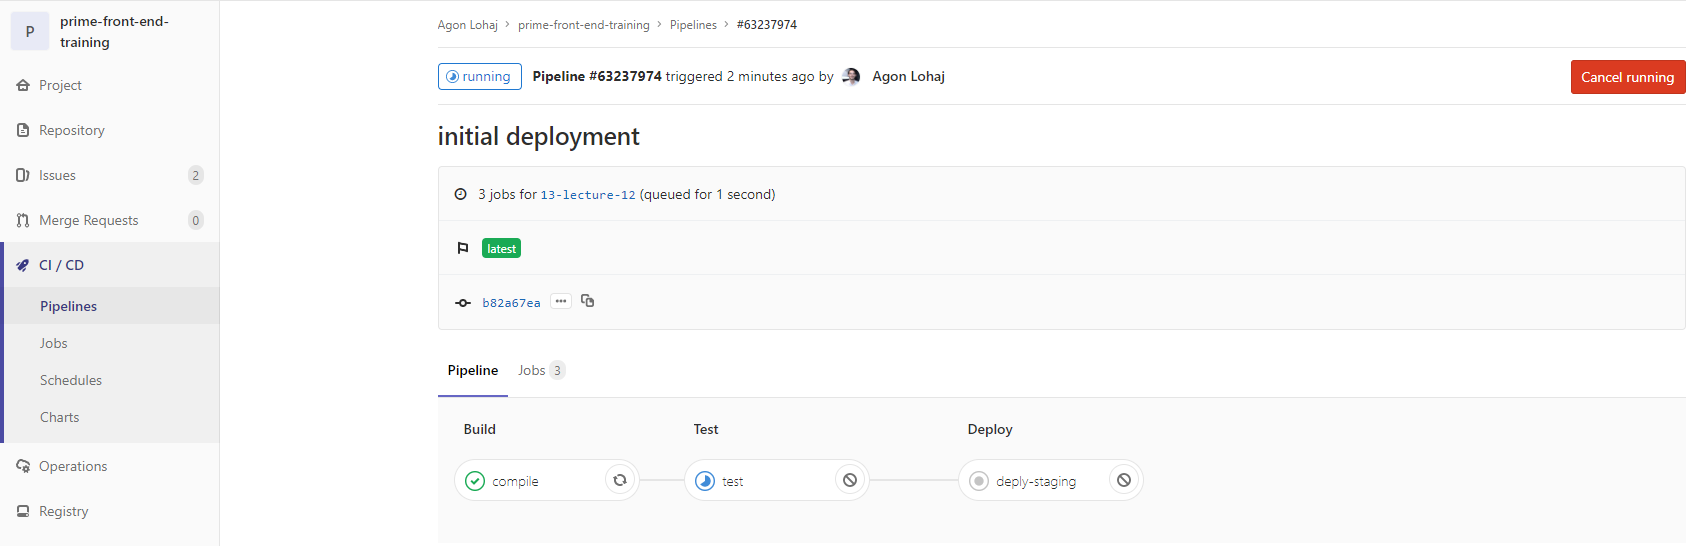
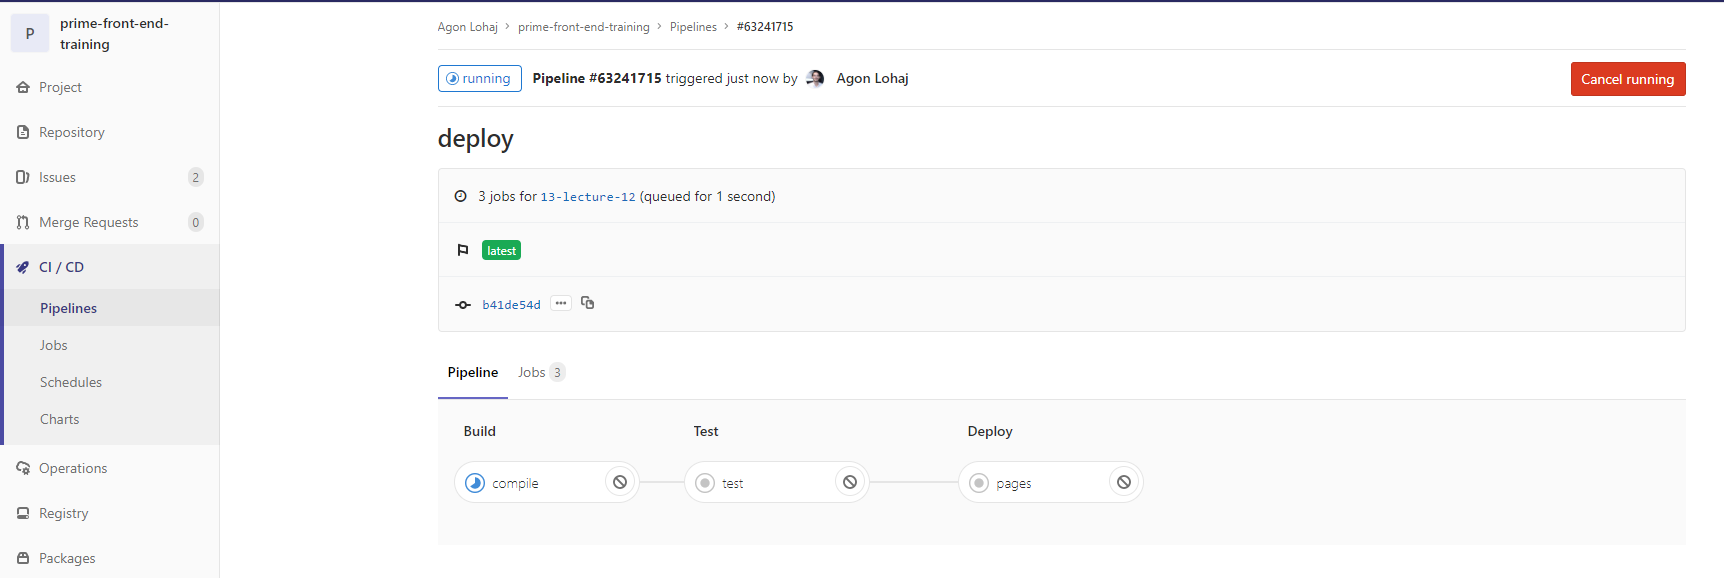
copy fix

diff --git a/src/pages/lecture12/ContinousDeploymentAndIntegration.js b/src/pages/lecture12/ContinousDeploymentAndIntegration.js
@@ -10,6 +10,7 @@ import SimpleLink from "presentations/rows/SimpleLink";
 import Typography from "presentations/Typography";
 import WorkflowExample from 'assets/images/lecture12/gitlab_workflow_example.png'
 import WorkflowExtendedExample from 'assets/images/lecture12/gitlab_workflow_example_extended.png'
+import DeployPipelineImage from 'assets/images/lecture12/pipeline.png'
 import NPMRunBuildImage from 'assets/images/lecture12/npm_run_build.png'
 import React, { Fragment } from "react";
 import { connect } from 'react-redux';
@@ -264,7 +265,7 @@ class ContinousDeploymentAndIntegration extends React.Component {
           <Code>
             {script}
           </Code>
-          By navigating at: <SimpleLink href="https://gitlab.com/agonlohaj/prime-front-end-training/pipelines">Gitlab Pipelines</SimpleLink> you will see all the pipelines that ran so far, based on that script!
+          By navigating at: <SimpleLink href="https://gitlab.com/agonlohaj/prime-front-end-training/pipelines">Gitlab Pipelines</SimpleLink> you will see all the pipelines that ran so far, based on that script! 
         </Typography>
         <Typography variant='p'>
           The important things to know are:
@@ -292,7 +293,9 @@ class ContinousDeploymentAndIntegration extends React.Component {
               </ol>
             </li>
           </ul>
+          In our case the "pages" deployment looks like this:
         </Typography>
+        <img src={DeployPipelineImage} />
 
         <Typography variant='p'>
           Due to the special job named <Bold>pages</Bold> this repository also got uploaded to Gitlab Pages located at <SimpleLink href="https://agonlohaj.gitlab.io/prime-front-end-training">https://agonlohaj.gitlab.io/prime-front-end-training</SimpleLink>
